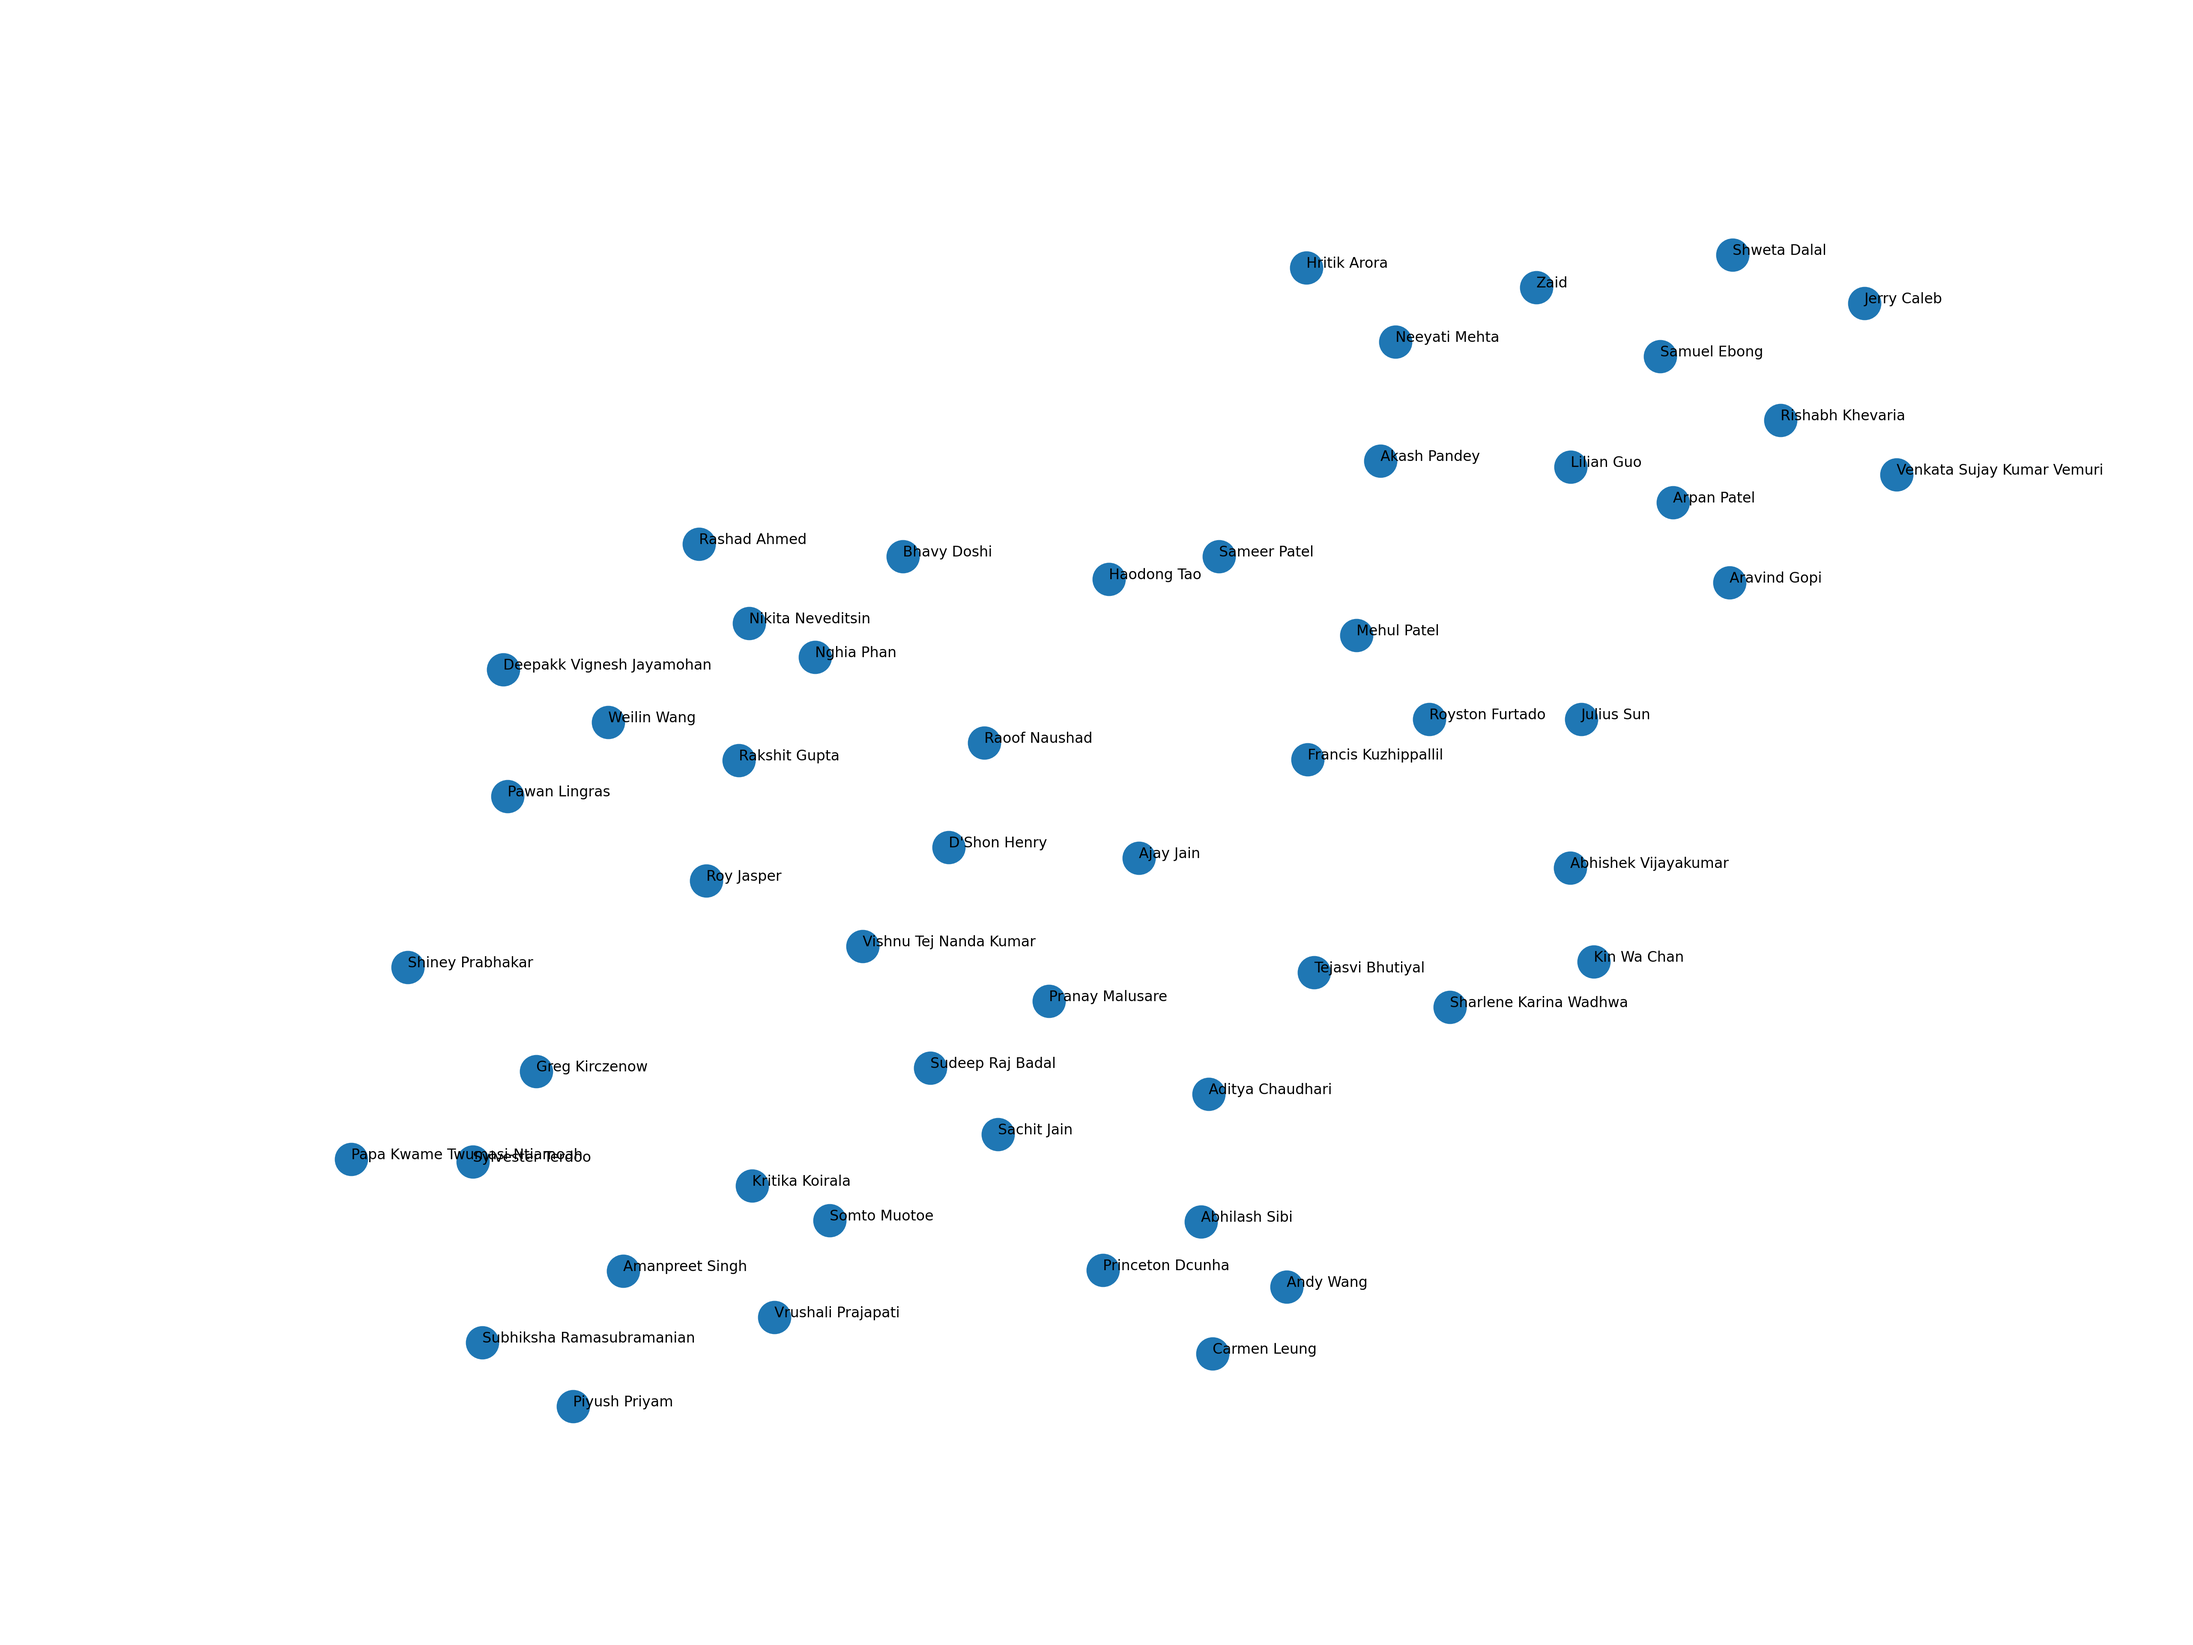
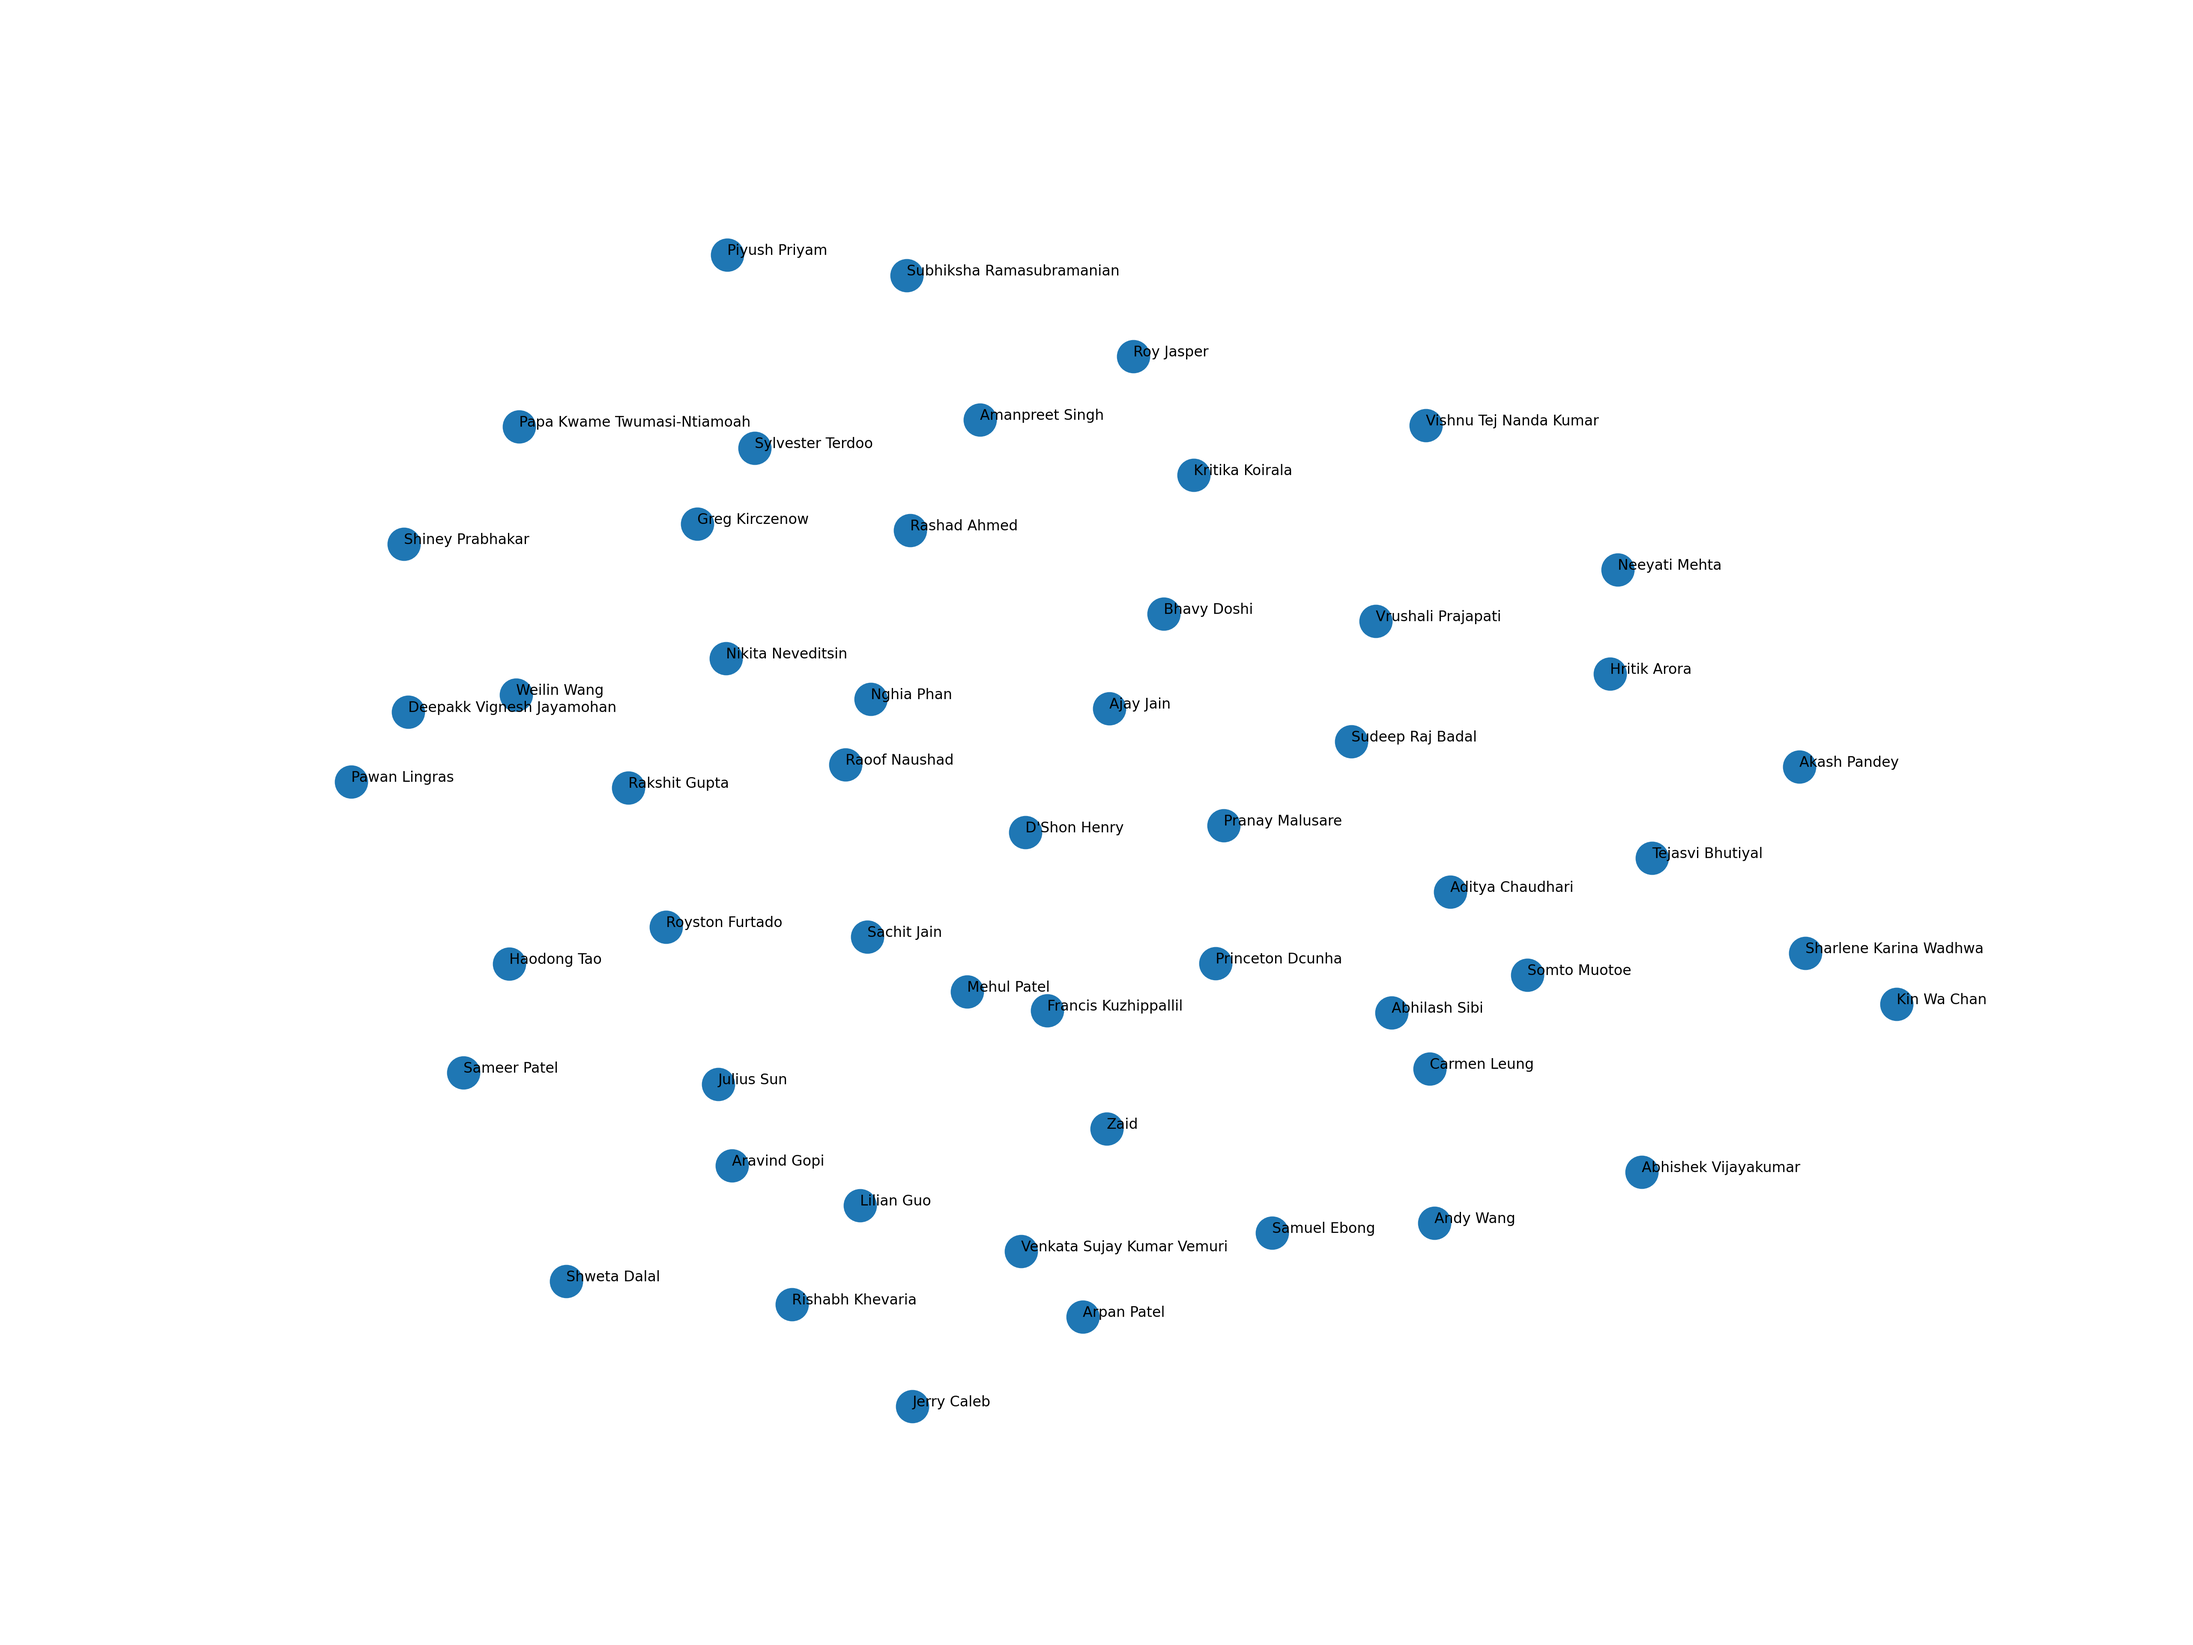
Corrected sorting for cosine sim in umap_enhancement

diff --git a/umap_enhancement.py b/umap_enhancement.py
@@ -62,7 +62,7 @@ def umap_objective(trial):
 
         euclidean_dists = np.linalg.norm(embedding_2d - embedding_2d[i], axis=1)
 
-        cos_ranks = np.argsort(cos_similarities)
+        cos_ranks = np.argsort(-cos_similarities)
         euclidean_ranks = np.argsort(euclidean_dists)
 
         correlation, _ = spearmanr(cos_ranks, euclidean_ranks)

diff --git a/config.py b/config.py
@@ -21,6 +21,6 @@ TRANSFORMER_MPNET_BASE_V2 = "sentence-transformers/all-mpnet-base-v2"
 
 SAVE_EMBEDDINGS = 0
 
-RANDOM_STATE = 42
-# RANDOM_STATE = 0
-# RANDOM_STATE = 23
+#RANDOM_STATE = 42
+RANDOM_STATE = 0
+#RANDOM_STATE = 23
